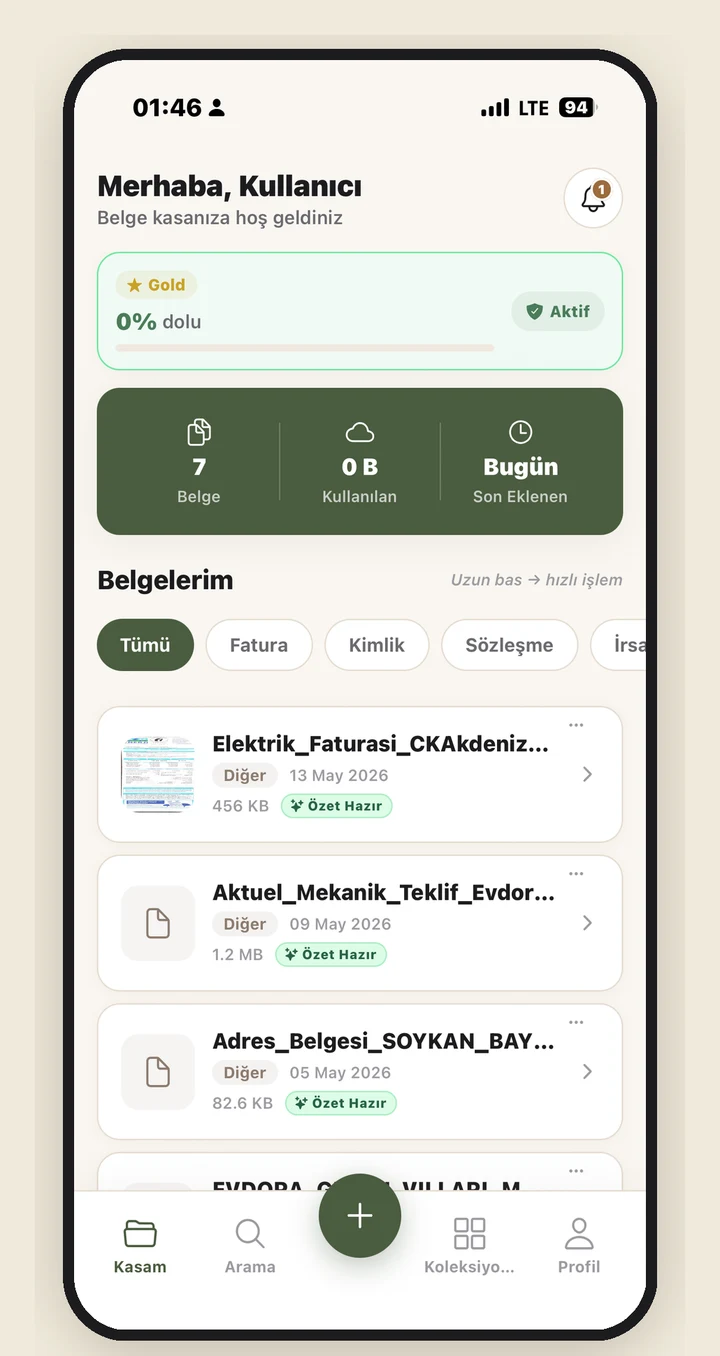
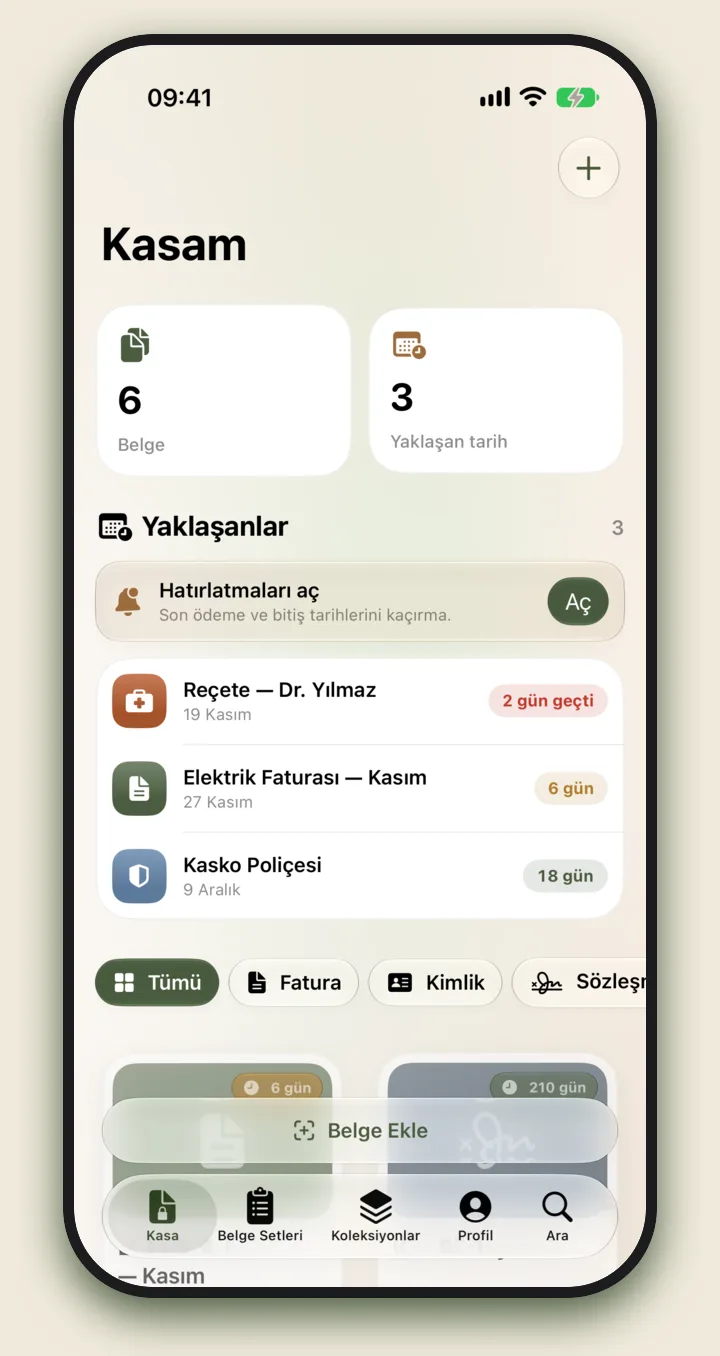
Phone screenshots from the 2.0 app (TR + EN)
Replaces the 1.x screenshots with frames of the 2.0 app on iPhone Air
(sample documents, in-memory store): vault, add document, document
sets, summary / Apple Intelligence, search, Face ID settings. Same
file names and frame style as before. Alt texts and labels follow the
new screens; the how-it-works step 2 now shows the vault.

diff --git a/components/HowItWorks.tsx b/components/HowItWorks.tsx
@@ -7,7 +7,7 @@ import { useLocale, useTranslations } from "next-intl";
 const STEP_KEYS = ["scan", "organize", "summary", "find", "secure"] as const;
 const STEP_IMAGES: Record<(typeof STEP_KEYS)[number], string> = {
   scan: "02-scanner",
-  organize: "03-collections",
+  organize: "01-vault",
   summary: "04-ai-summary",
   find: "05-ai-search",
   secure: "06-security",
